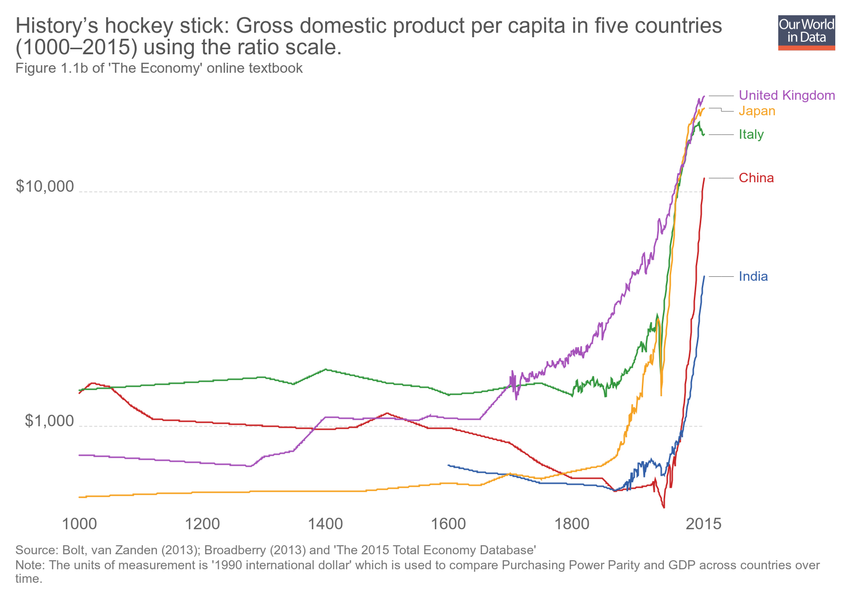
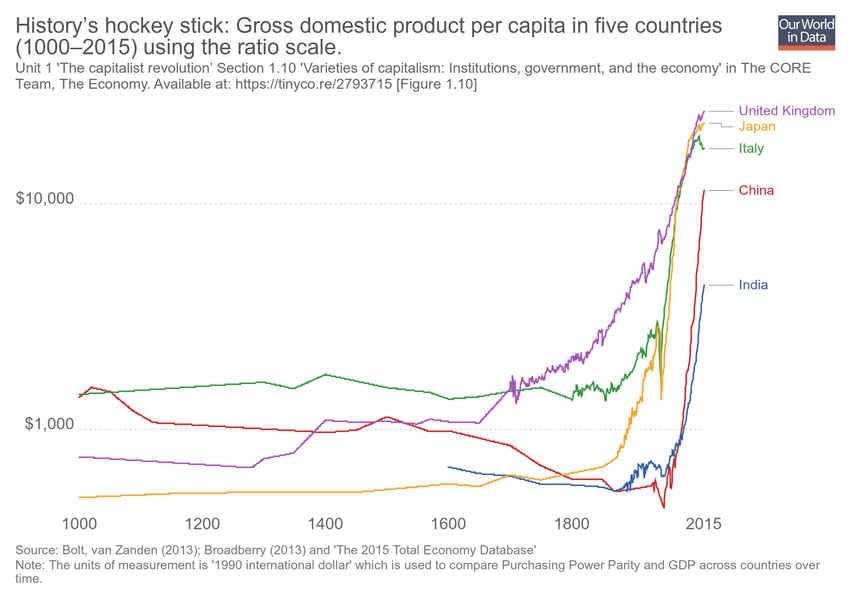
Updating chart historys-hockey-stick-gross-domestic-product-per-capita-in-five-countries-10002015-using-the-ratio-scale

diff --git a/grapher/historys-hockey-stick-gross-domestic-product-per-capita-in-five-countries-10002015-using-the-ratio-scale.html b/grapher/historys-hockey-stick-gross-domestic-product-per-capita-in-five-countries-10002015-using-the-ratio-scale.html
@@ -1,4 +1,4 @@
-<!doctype html><html><head><meta name="viewport" content="width=device-width, initial-scale=1" /><title>History’s hockey stick: Gross domestic product per capita in five countries (1000–2015) using the ratio scale. - Our World in Data</title><meta name="description" content="Figure 1.1b of 'The Economy' online textbook" /><link rel="canonical" href="https://ourworldindata.org/grapher/historys-hockey-stick-gross-domestic-product-per-capita-in-five-countries-10002015-using-the-ratio-scale" /><meta property="fb:app_id" content="1149943818390250" /><meta property="og:url" content="https://ourworldindata.org/grapher/historys-hockey-stick-gross-domestic-product-per-capita-in-five-countries-10002015-using-the-ratio-scale" /><meta property="og:title" content="History’s hockey stick: Gross domestic product per capita in five countries (1000–2015) using the ratio scale." /><meta property="og:description" content="Figure 1.1b of 'The Economy' online textbook" /><meta property="og:image" content="https://ourworldindata.org/grapher/exports/historys-hockey-stick-gross-domestic-product-per-capita-in-five-countries-10002015-using-the-ratio-scale.png?v=6" /><meta property="og:image:width" content="850" /><meta property="og:image:height" content="600" /><meta property="og:site_name" content="Our World in Data" /><meta name="twitter:card" content="summary_large_image" /><meta name="twitter:site" content="@OurWorldInData" /><meta name="twitter:creator" content="@OurWorldInData" /><meta name="twitter:title" content="History’s hockey stick: Gross domestic product per capita in five countries (1000–2015) using the ratio scale." /><meta name="twitter:description" content="Figure 1.1b of 'The Economy' online textbook" /><meta name="twitter:image" content="https://ourworldindata.org/grapher/exports/historys-hockey-stick-gross-domestic-product-per-capita-in-five-countries-10002015-using-the-ratio-scale.png?v=6" /><style>
+<!doctype html><html><head><meta name="viewport" content="width=device-width, initial-scale=1" /><title>History’s hockey stick: Gross domestic product per capita in five countries (1000–2015) using the ratio scale. - Our World in Data</title><meta name="description" content="Unit 1 'The capitalist revolution’ Section 1.10 'Varieties of capitalism: Institutions, government, and the economy' in The CORE Team, The Economy. Available at: https://tinyco.re/2793715 [Figure 1.10]" /><link rel="canonical" href="https://ourworldindata.org/grapher/historys-hockey-stick-gross-domestic-product-per-capita-in-five-countries-10002015-using-the-ratio-scale" /><meta property="fb:app_id" content="1149943818390250" /><meta property="og:url" content="https://ourworldindata.org/grapher/historys-hockey-stick-gross-domestic-product-per-capita-in-five-countries-10002015-using-the-ratio-scale" /><meta property="og:title" content="History’s hockey stick: Gross domestic product per capita in five countries (1000–2015) using the ratio scale." /><meta property="og:description" content="Unit 1 'The capitalist revolution’ Section 1.10 'Varieties of capitalism: Institutions, government, and the economy' in The CORE Team, The Economy. Available at: https://tinyco.re/2793715 [Figure 1.10]" /><meta property="og:image" content="https://ourworldindata.org/grapher/exports/historys-hockey-stick-gross-domestic-product-per-capita-in-five-countries-10002015-using-the-ratio-scale.png?v=7" /><meta property="og:image:width" content="850" /><meta property="og:image:height" content="600" /><meta property="og:site_name" content="Our World in Data" /><meta name="twitter:card" content="summary_large_image" /><meta name="twitter:site" content="@OurWorldInData" /><meta name="twitter:creator" content="@OurWorldInData" /><meta name="twitter:title" content="History’s hockey stick: Gross domestic product per capita in five countries (1000–2015) using the ratio scale." /><meta name="twitter:description" content="Unit 1 'The capitalist revolution’ Section 1.10 'Varieties of capitalism: Institutions, government, and the economy' in The CORE Team, The Economy. Available at: https://tinyco.re/2793715 [Figure 1.10]" /><meta name="twitter:image" content="https://ourworldindata.org/grapher/exports/historys-hockey-stick-gross-domestic-product-per-capita-in-five-countries-10002015-using-the-ratio-scale.png?v=7" /><style>
         html, body {
             height: 100%;
             margin: 0;
@@ -20,8 +20,8 @@
         }
     </style><noscript><style>
                     figure { display: none !important; }
-                </style></noscript><link rel="stylesheet" href="https://ourworldindata.org/grapher/assets/commons.bundle.397229a8467cf53bfc99.css" /><link rel="preload" href="/grapher/data/variables/97935.json?v=6" as="fetch" crossorigin /></head><body class="singleChart"><figure data-grapher-src="/grapher/historys-hockey-stick-gross-domestic-product-per-capita-in-five-countries-10002015-using-the-ratio-scale"></figure><noscript id="fallback"><img src="/grapher/exports/historys-hockey-stick-gross-domestic-product-per-capita-in-five-countries-10002015-using-the-ratio-scale.svg" /><p>Interactive visualization requires JavaScript</p></noscript><script src="https://cdn.polyfill.io/v2/polyfill.min.js?features=es6,fetch"></script><script src="https://ourworldindata.org/grapher/assets/commons.bundle.397229a8467cf53bfc99.js"></script><script src="https://ourworldindata.org/grapher/assets/charts.bundle.397229a8467cf53bfc99.js"></script><script>
-        var jsonConfig = {"id":3012,"map":{"projection":"World","targetYear":2015,"variableId":97935,"colorSchemeLabels":[],"colorSchemeValues":[],"customNumericColors":[],"customCategoryColors":{},"customCategoryLabels":{},"customHiddenCategories":{}},"tab":"chart","note":"The units of measurement is '1990 international dollar' which is used to compare Purchasing Power Parity and GDP across countries over time.","slug":"historys-hockey-stick-gross-domestic-product-per-capita-in-five-countries-10002015-using-the-ratio-scale","type":"LineChart","title":"History’s hockey stick: Gross domestic product per capita in five countries (1000–2015) using the ratio scale.","xAxis":{"scaleType":"linear"},"yAxis":{"min":0,"scaleType":"log"},"overlay":"sources","version":6,"subtitle":"Figure 1.1b of 'The Economy' online textbook","hasMapTab":true,"stackMode":"absolute","dimensions":[{"display":{},"property":"y","variableId":97935}],"hasChartTab":true,"isPublished":true,"selectedData":[{"index":0,"entityId":171},{"index":0,"entityId":137},{"index":0,"entityId":8},{"index":0,"entityId":14},{"index":0,"entityId":1}],"internalNotes":"core-econ.org","addCountryMode":"add-country"};
+                </style></noscript><link rel="stylesheet" href="https://ourworldindata.org/grapher/assets/commons.bundle.397229a8467cf53bfc99.css" /><link rel="preload" href="/grapher/data/variables/97935.json?v=7" as="fetch" crossorigin /></head><body class="singleChart"><figure data-grapher-src="/grapher/historys-hockey-stick-gross-domestic-product-per-capita-in-five-countries-10002015-using-the-ratio-scale"></figure><noscript id="fallback"><img src="/grapher/exports/historys-hockey-stick-gross-domestic-product-per-capita-in-five-countries-10002015-using-the-ratio-scale.svg" /><p>Interactive visualization requires JavaScript</p></noscript><script src="https://cdn.polyfill.io/v2/polyfill.min.js?features=es6,fetch"></script><script src="https://ourworldindata.org/grapher/assets/commons.bundle.397229a8467cf53bfc99.js"></script><script src="https://ourworldindata.org/grapher/assets/charts.bundle.397229a8467cf53bfc99.js"></script><script>
+        var jsonConfig = {"id":3012,"map":{"projection":"World","targetYear":2015,"variableId":97935,"colorSchemeLabels":[],"colorSchemeValues":[],"customNumericColors":[],"customCategoryColors":{},"customCategoryLabels":{},"customHiddenCategories":{}},"tab":"chart","note":"The units of measurement is '1990 international dollar' which is used to compare Purchasing Power Parity and GDP across countries over time.","slug":"historys-hockey-stick-gross-domestic-product-per-capita-in-five-countries-10002015-using-the-ratio-scale","type":"LineChart","title":"History’s hockey stick: Gross domestic product per capita in five countries (1000–2015) using the ratio scale.","xAxis":{"scaleType":"linear"},"yAxis":{"min":0,"scaleType":"log","canChangeScaleType":true},"version":7,"subtitle":"Unit 1 'The capitalist revolution’ Section 1.10 'Varieties of capitalism: Institutions, government, and the economy' in The CORE Team, The Economy. Available at: https://tinyco.re/2793715 [Figure 1.10]","hasMapTab":true,"stackMode":"absolute","dimensions":[{"display":{},"property":"y","variableId":97935}],"hasChartTab":true,"isPublished":true,"selectedData":[{"index":0,"entityId":171},{"index":0,"entityId":137},{"index":0,"entityId":8},{"index":0,"entityId":14},{"index":0,"entityId":1}],"internalNotes":"core-econ.org","addCountryMode":"add-country"};
         var figure = document.getElementsByTagName("figure")[0];
         try {
             window.App = {};
